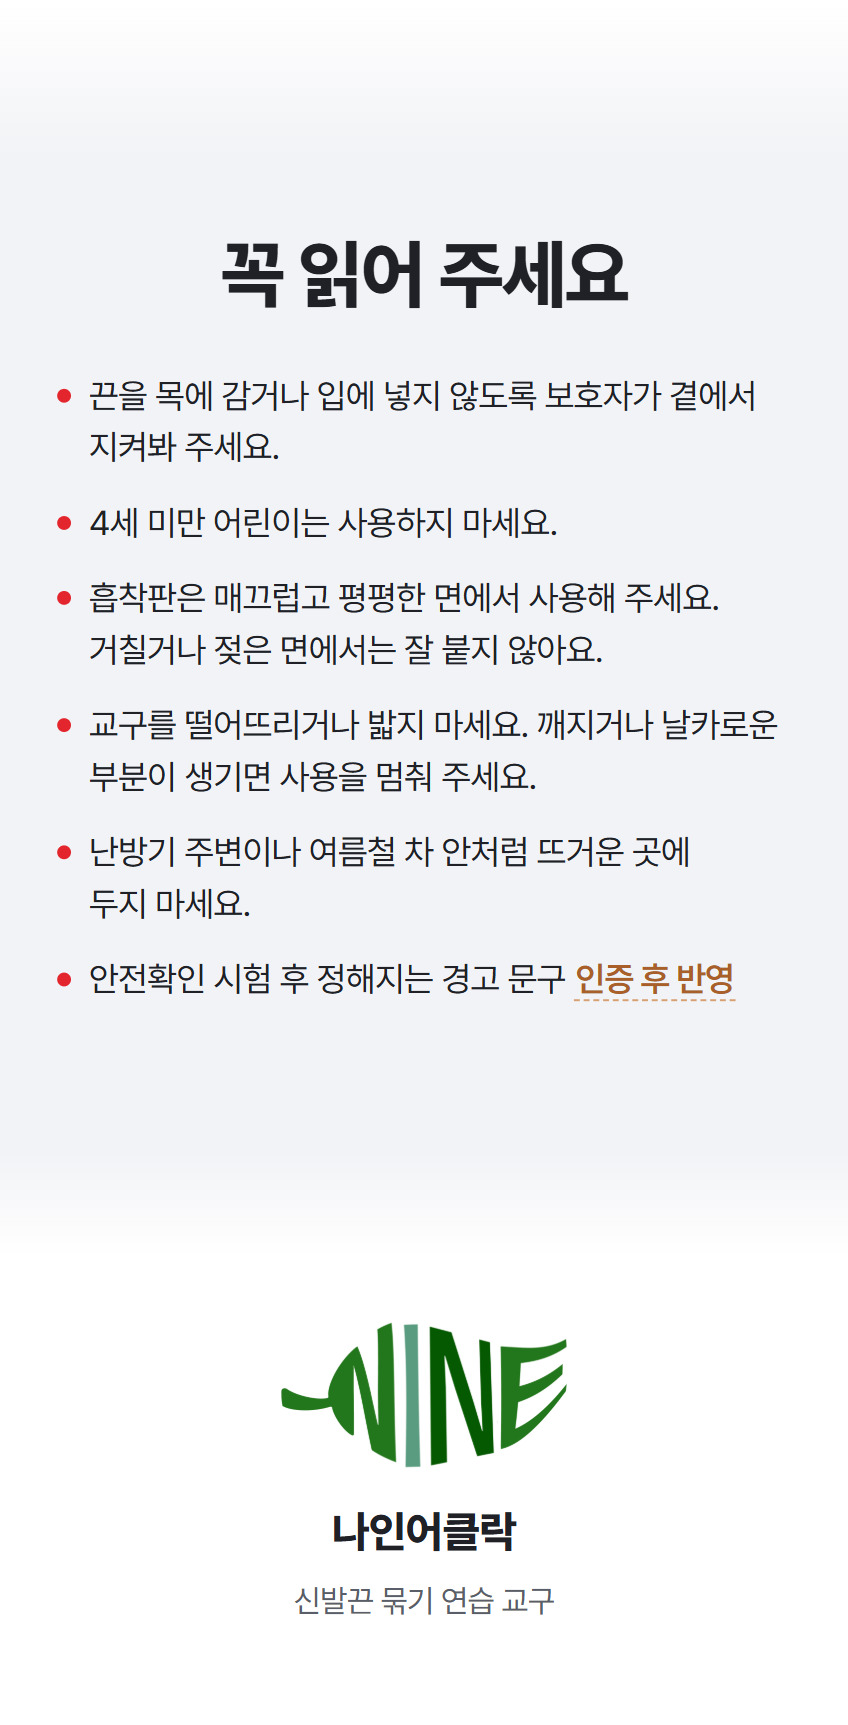
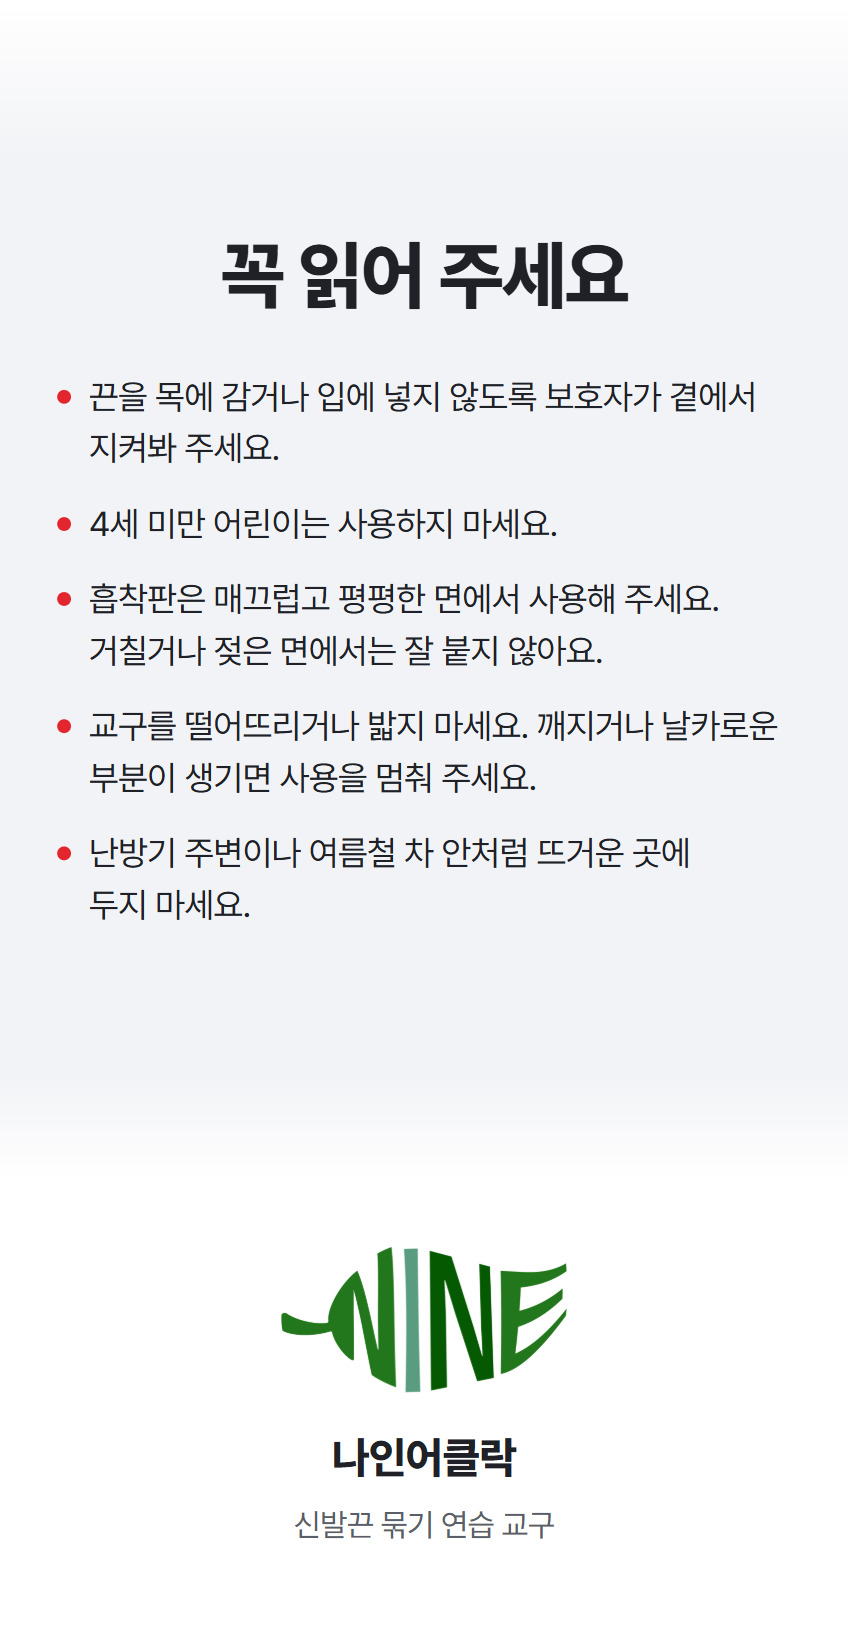
시안 미리보기 갱신 20261111-143026

diff --git a/a/index.html b/a/index.html
@@ -162,7 +162,7 @@
 <div class="toast" id="toast" role="status"></div>
 
 <script>
-  const DATA = {"shoe": {"short": "신발끈 교구", "name": "신발끈 묶기 연습 교구", "store": "나인어클락", "price": "가격 미정", "rows": [["배송", "택배배송 · 배송비 미정"], ["옵션", "1개입 · 2개입"]], "gallery": ["img/shoe/thumb1.jpg", "img/shoe/thumb2.jpg", "img/shoe/thumb3.jpg", "img/shoe/thumb4.jpg"], "spec": "가로 848px · 이미지 15장 (움직이는 그림 3개) · 세로 29,488px", "files": [{"src": "img/shoe/01.gif", "w": 848, "h": 1486}, {"src": "img/shoe/02.jpg", "w": 848, "h": 2784}, {"src": "img/shoe/03.jpg", "w": 848, "h": 2670}, {"src": "img/shoe/04.gif", "w": 848, "h": 613}, {"src": "img/shoe/05.jpg", "w": 848, "h": 2795}, {"src": "img/shoe/06.jpg", "w": 848, "h": 1738}, {"src": "img/shoe/07.jpg", "w": 848, "h": 1763}, {"src": "img/shoe/08.jpg", "w": 848, "h": 1519}, {"src": "img/shoe/09.jpg", "w": 848, "h": 2971}, {"src": "img/shoe/10.gif", "w": 848, "h": 1074}, {"src": "img/shoe/11.jpg", "w": 848, "h": 2049}, {"src": "img/shoe/12.jpg", "w": 848, "h": 1330}, {"src": "img/shoe/13.jpg", "w": 848, "h": 2509}, {"src": "img/shoe/14.jpg", "w": 848, "h": 2462}, {"src": "img/shoe/15.jpg", "w": 848, "h": 1725}]}, "app": {"short": "행복한 마을", "name": "행복한 마을", "store": "나인어클락", "price": "가격 미정", "rows": [["배송", "배송 없음 · 구매 후 이용 링크 발송"]], "gallery": ["img/app/thumb1.jpg", "img/app/thumb2.jpg", "img/app/thumb3.jpg"], "spec": "가로 848px · 이미지 18장 (움직이는 그림 3개) · 세로 33,552px", "files": [{"src": "img/app/01.jpg", "w": 848, "h": 730}, {"src": "img/app/02.gif", "w": 848, "h": 1658}, {"src": "img/app/03.jpg", "w": 848, "h": 2096}, {"src": "img/app/04.jpg", "w": 848, "h": 1446}, {"src": "img/app/05.jpg", "w": 848, "h": 1581}, {"src": "img/app/06.gif", "w": 848, "h": 1533}, {"src": "img/app/07.jpg", "w": 848, "h": 2751}, {"src": "img/app/08.jpg", "w": 848, "h": 2050}, {"src": "img/app/09.gif", "w": 848, "h": 1359}, {"src": "img/app/10.jpg", "w": 848, "h": 1776}, {"src": "img/app/11.jpg", "w": 848, "h": 2325}, {"src": "img/app/12.jpg", "w": 848, "h": 1128}, {"src": "img/app/13.jpg", "w": 848, "h": 2152}, {"src": "img/app/14.jpg", "w": 848, "h": 1994}, {"src": "img/app/15.jpg", "w": 848, "h": 2065}, {"src": "img/app/16.jpg", "w": 848, "h": 2704}, {"src": "img/app/17.jpg", "w": 848, "h": 2543}, {"src": "img/app/18.jpg", "w": 848, "h": 1661}]}};
+  const DATA = {"shoe": {"short": "신발끈 교구", "name": "신발끈 묶기 연습 교구", "store": "나인어클락", "price": "가격 미정", "rows": [["배송", "택배배송 · 배송비 미정"], ["옵션", "1개입 · 2개입"]], "gallery": ["img/shoe/thumb1.jpg", "img/shoe/thumb2.jpg", "img/shoe/thumb3.jpg", "img/shoe/thumb4.jpg"], "spec": "가로 848px · 이미지 15장 (움직이는 그림 3개) · 세로 29,267px", "files": [{"src": "img/shoe/01.gif", "w": 848, "h": 1486}, {"src": "img/shoe/02.jpg", "w": 848, "h": 2784}, {"src": "img/shoe/03.jpg", "w": 848, "h": 2670}, {"src": "img/shoe/04.gif", "w": 848, "h": 613}, {"src": "img/shoe/05.jpg", "w": 848, "h": 2795}, {"src": "img/shoe/06.jpg", "w": 848, "h": 1738}, {"src": "img/shoe/07.jpg", "w": 848, "h": 1763}, {"src": "img/shoe/08.jpg", "w": 848, "h": 1519}, {"src": "img/shoe/09.jpg", "w": 848, "h": 2971}, {"src": "img/shoe/10.gif", "w": 848, "h": 1074}, {"src": "img/shoe/11.jpg", "w": 848, "h": 2049}, {"src": "img/shoe/12.jpg", "w": 848, "h": 1330}, {"src": "img/shoe/13.jpg", "w": 848, "h": 2509}, {"src": "img/shoe/14.jpg", "w": 848, "h": 2316}, {"src": "img/shoe/15.jpg", "w": 848, "h": 1650}]}, "app": {"short": "행복한 마을", "name": "행복한 마을", "store": "나인어클락", "price": "가격 미정", "rows": [["배송", "배송 없음 · 구매 후 이용 링크 발송"]], "gallery": ["img/app/thumb1.jpg", "img/app/thumb2.jpg", "img/app/thumb3.jpg"], "spec": "가로 848px · 이미지 18장 (움직이는 그림 3개) · 세로 33,552px", "files": [{"src": "img/app/01.jpg", "w": 848, "h": 730}, {"src": "img/app/02.gif", "w": 848, "h": 1658}, {"src": "img/app/03.jpg", "w": 848, "h": 2096}, {"src": "img/app/04.jpg", "w": 848, "h": 1446}, {"src": "img/app/05.jpg", "w": 848, "h": 1581}, {"src": "img/app/06.gif", "w": 848, "h": 1533}, {"src": "img/app/07.jpg", "w": 848, "h": 2751}, {"src": "img/app/08.jpg", "w": 848, "h": 2050}, {"src": "img/app/09.gif", "w": 848, "h": 1359}, {"src": "img/app/10.jpg", "w": 848, "h": 1776}, {"src": "img/app/11.jpg", "w": 848, "h": 2325}, {"src": "img/app/12.jpg", "w": 848, "h": 1128}, {"src": "img/app/13.jpg", "w": 848, "h": 2152}, {"src": "img/app/14.jpg", "w": 848, "h": 1994}, {"src": "img/app/15.jpg", "w": 848, "h": 2065}, {"src": "img/app/16.jpg", "w": 848, "h": 2704}, {"src": "img/app/17.jpg", "w": 848, "h": 2543}, {"src": "img/app/18.jpg", "w": 848, "h": 1661}]}};
   const VARIANT = {"cur": "a", "home": "../", "items": [{"k": "a", "label": "A안", "href": "../a/"}, {"k": "b", "label": "B안", "href": "../b/"}]};
   const KEYS = Object.keys(DATA);
   const col = document.getElementById("col");

diff --git a/b/index.html b/b/index.html
@@ -162,7 +162,7 @@
 <div class="toast" id="toast" role="status"></div>
 
 <script>
-  const DATA = {"shoe": {"short": "신발끈 교구", "name": "신발끈 묶기 연습 교구", "store": "나인어클락", "price": "가격 미정", "rows": [["배송", "택배배송 · 배송비 미정"], ["옵션", "1개입 · 2개입"]], "gallery": ["img/shoe/thumb1.jpg", "img/shoe/thumb2.jpg", "img/shoe/thumb3.jpg", "img/shoe/thumb4.jpg"], "spec": "가로 848px · 이미지 15장 (움직이는 그림 3개) · 세로 29,488px", "files": [{"src": "img/shoe/01.gif", "w": 848, "h": 1486}, {"src": "img/shoe/02.jpg", "w": 848, "h": 2784}, {"src": "img/shoe/03.jpg", "w": 848, "h": 2670}, {"src": "img/shoe/04.gif", "w": 848, "h": 613}, {"src": "img/shoe/05.jpg", "w": 848, "h": 2795}, {"src": "img/shoe/06.jpg", "w": 848, "h": 1738}, {"src": "img/shoe/07.jpg", "w": 848, "h": 1763}, {"src": "img/shoe/08.jpg", "w": 848, "h": 1519}, {"src": "img/shoe/09.jpg", "w": 848, "h": 2971}, {"src": "img/shoe/10.gif", "w": 848, "h": 1074}, {"src": "img/shoe/11.jpg", "w": 848, "h": 2049}, {"src": "img/shoe/12.jpg", "w": 848, "h": 1330}, {"src": "img/shoe/13.jpg", "w": 848, "h": 2509}, {"src": "img/shoe/14.jpg", "w": 848, "h": 2462}, {"src": "img/shoe/15.jpg", "w": 848, "h": 1725}]}, "app": {"short": "행복한 마을", "name": "행복한 마을", "store": "나인어클락", "price": "가격 미정", "rows": [["배송", "배송 없음 · 구매 후 이용 링크 발송"]], "gallery": ["img/app/thumb1.jpg", "img/app/thumb2.jpg", "img/app/thumb3.jpg"], "spec": "가로 848px · 이미지 18장 (움직이는 그림 3개) · 세로 33,552px", "files": [{"src": "img/app/01.jpg", "w": 848, "h": 730}, {"src": "img/app/02.gif", "w": 848, "h": 1658}, {"src": "img/app/03.jpg", "w": 848, "h": 2096}, {"src": "img/app/04.jpg", "w": 848, "h": 1446}, {"src": "img/app/05.jpg", "w": 848, "h": 1581}, {"src": "img/app/06.gif", "w": 848, "h": 1533}, {"src": "img/app/07.jpg", "w": 848, "h": 2751}, {"src": "img/app/08.jpg", "w": 848, "h": 2050}, {"src": "img/app/09.gif", "w": 848, "h": 1359}, {"src": "img/app/10.jpg", "w": 848, "h": 1776}, {"src": "img/app/11.jpg", "w": 848, "h": 2325}, {"src": "img/app/12.jpg", "w": 848, "h": 1128}, {"src": "img/app/13.jpg", "w": 848, "h": 2152}, {"src": "img/app/14.jpg", "w": 848, "h": 1994}, {"src": "img/app/15.jpg", "w": 848, "h": 2065}, {"src": "img/app/16.jpg", "w": 848, "h": 2704}, {"src": "img/app/17.jpg", "w": 848, "h": 2543}, {"src": "img/app/18.jpg", "w": 848, "h": 1661}]}};
+  const DATA = {"shoe": {"short": "신발끈 교구", "name": "신발끈 묶기 연습 교구", "store": "나인어클락", "price": "가격 미정", "rows": [["배송", "택배배송 · 배송비 미정"], ["옵션", "1개입 · 2개입"]], "gallery": ["img/shoe/thumb1.jpg", "img/shoe/thumb2.jpg", "img/shoe/thumb3.jpg", "img/shoe/thumb4.jpg"], "spec": "가로 848px · 이미지 15장 (움직이는 그림 3개) · 세로 29,267px", "files": [{"src": "img/shoe/01.gif", "w": 848, "h": 1486}, {"src": "img/shoe/02.jpg", "w": 848, "h": 2784}, {"src": "img/shoe/03.jpg", "w": 848, "h": 2670}, {"src": "img/shoe/04.gif", "w": 848, "h": 613}, {"src": "img/shoe/05.jpg", "w": 848, "h": 2795}, {"src": "img/shoe/06.jpg", "w": 848, "h": 1738}, {"src": "img/shoe/07.jpg", "w": 848, "h": 1763}, {"src": "img/shoe/08.jpg", "w": 848, "h": 1519}, {"src": "img/shoe/09.jpg", "w": 848, "h": 2971}, {"src": "img/shoe/10.gif", "w": 848, "h": 1074}, {"src": "img/shoe/11.jpg", "w": 848, "h": 2049}, {"src": "img/shoe/12.jpg", "w": 848, "h": 1330}, {"src": "img/shoe/13.jpg", "w": 848, "h": 2509}, {"src": "img/shoe/14.jpg", "w": 848, "h": 2316}, {"src": "img/shoe/15.jpg", "w": 848, "h": 1650}]}, "app": {"short": "행복한 마을", "name": "행복한 마을", "store": "나인어클락", "price": "가격 미정", "rows": [["배송", "배송 없음 · 구매 후 이용 링크 발송"]], "gallery": ["img/app/thumb1.jpg", "img/app/thumb2.jpg", "img/app/thumb3.jpg"], "spec": "가로 848px · 이미지 18장 (움직이는 그림 3개) · 세로 33,552px", "files": [{"src": "img/app/01.jpg", "w": 848, "h": 730}, {"src": "img/app/02.gif", "w": 848, "h": 1658}, {"src": "img/app/03.jpg", "w": 848, "h": 2096}, {"src": "img/app/04.jpg", "w": 848, "h": 1446}, {"src": "img/app/05.jpg", "w": 848, "h": 1581}, {"src": "img/app/06.gif", "w": 848, "h": 1533}, {"src": "img/app/07.jpg", "w": 848, "h": 2751}, {"src": "img/app/08.jpg", "w": 848, "h": 2050}, {"src": "img/app/09.gif", "w": 848, "h": 1359}, {"src": "img/app/10.jpg", "w": 848, "h": 1776}, {"src": "img/app/11.jpg", "w": 848, "h": 2325}, {"src": "img/app/12.jpg", "w": 848, "h": 1128}, {"src": "img/app/13.jpg", "w": 848, "h": 2152}, {"src": "img/app/14.jpg", "w": 848, "h": 1994}, {"src": "img/app/15.jpg", "w": 848, "h": 2065}, {"src": "img/app/16.jpg", "w": 848, "h": 2704}, {"src": "img/app/17.jpg", "w": 848, "h": 2543}, {"src": "img/app/18.jpg", "w": 848, "h": 1661}]}};
   const VARIANT = {"cur": "b", "home": "../", "items": [{"k": "a", "label": "A안", "href": "../a/"}, {"k": "b", "label": "B안", "href": "../b/"}]};
   const KEYS = Object.keys(DATA);
   const col = document.getElementById("col");

diff --git a/index.html b/index.html
@@ -1,7 +1,7 @@
 <!doctype html>
 <html lang="ko">
 <head>
-<meta name="sian-build" content="20261111-113129">
+<meta name="sian-build" content="20261111-143026">
 <meta charset="utf-8">
 <meta name="viewport" content="width=device-width, initial-scale=1">
 <meta name="robots" content="noindex, nofollow">
